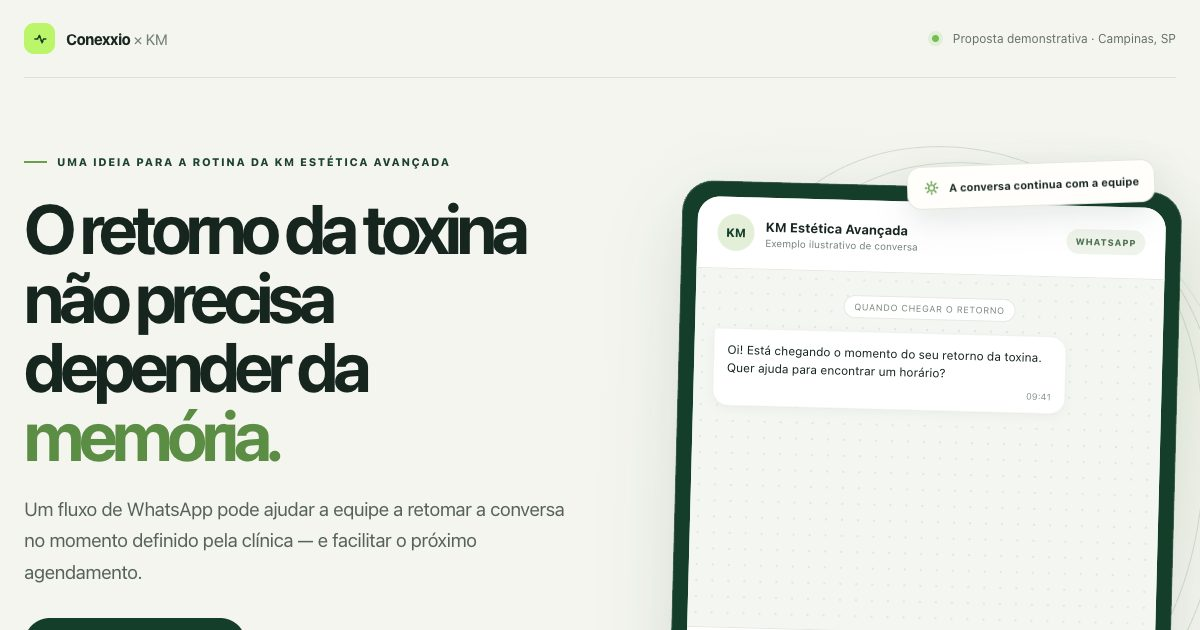
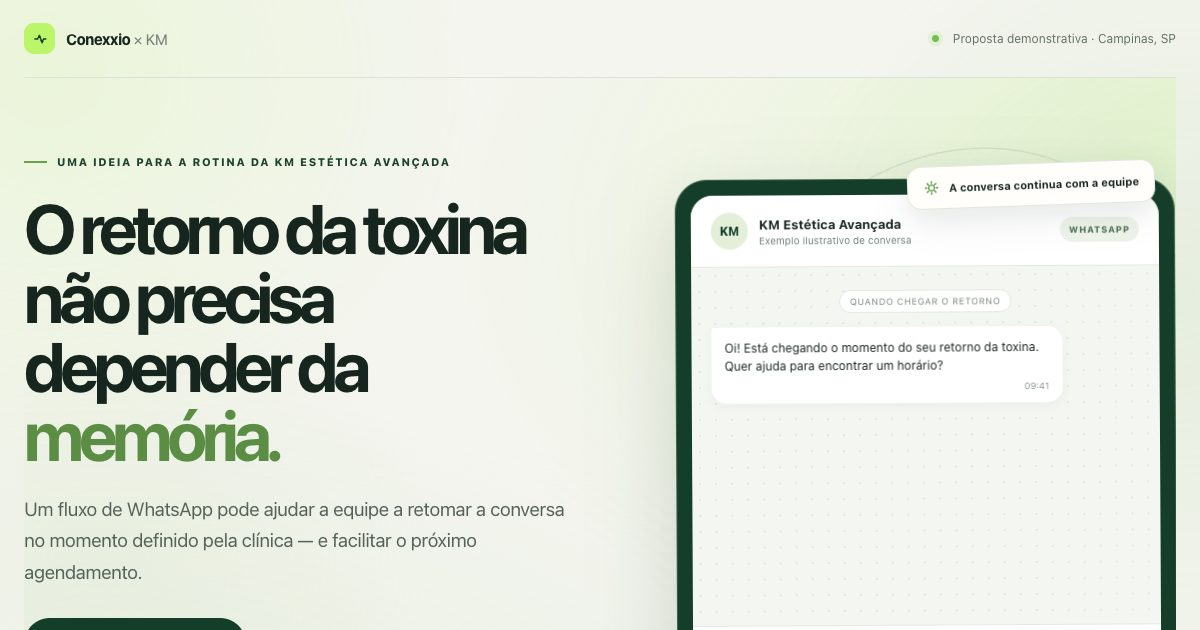
Refaz proposta KM com layout mobile-first e animações

diff --git a/index.html b/index.html
@@ -33,18 +33,21 @@
     }
     *, *::before, *::after { box-sizing: border-box; }
     html { scroll-behavior: smooth; }
-    body { margin: 0; background: var(--paper); color: var(--ink); -webkit-font-smoothing: antialiased; }
+    body { margin: 0; overflow-x: clip; background: var(--paper); color: var(--ink); -webkit-font-smoothing: antialiased; }
+    body::before { position: fixed; inset: 0; z-index: 0; content: ""; pointer-events: none; background: radial-gradient(38rem 34rem at 4% 12%, rgba(186,245,106,.16), transparent 72%), radial-gradient(36rem 36rem at 98% 48%, rgba(162,204,143,.18), transparent 72%), radial-gradient(30rem 28rem at 8% 88%, rgba(207,224,185,.2), transparent 70%); animation: atmosphere-drift 18s ease-in-out infinite alternate; }
+    @keyframes atmosphere-drift { to { transform: translate3d(1%, -1%, 0) scale(1.03); opacity: .8; } }
+    header, main { position: relative; z-index: 1; }
     a { color: inherit; }
-    .wrap { width: min(1160px, calc(100% - 48px)); margin: 0 auto; }
+    .wrap { width: min(520px, calc(100% - 36px)); margin: 0 auto; }
     .topbar { display: flex; align-items: center; justify-content: space-between; padding: 23px 0; border-bottom: 1px solid var(--line); }
     .scroll-progress { position: fixed; inset: 0 auto auto 0; z-index: 20; width: 100%; height: 3px; background: var(--green); transform: scaleX(0); transform-origin: left center; pointer-events: none; }
     .brand { display: flex; gap: 11px; align-items: center; color: var(--ink); text-decoration: none; font-size: 15px; font-weight: 750; letter-spacing: -.035em; }
     .brand-mark { display: grid; width: 31px; height: 31px; place-items: center; border-radius: 10px; background: var(--green); color: var(--forest); }
     .brand-mark svg { width: 18px; height: 18px; }
-    .top-meta { display: flex; gap: 14px; align-items: center; color: var(--muted); font-size: 12px; }
+    .top-meta { display: none; gap: 14px; align-items: center; color: var(--muted); font-size: 12px; }
     .meta-dot { width: 7px; height: 7px; border-radius: 50%; background: #73be4f; box-shadow: 0 0 0 4px #e1efd9; }
-    .hero { position: relative; display: grid; grid-template-columns: minmax(0, 1.04fr) minmax(390px, .96fr); gap: clamp(40px, 7vw, 98px); align-items: center; min-height: 650px; padding: 76px 0 90px; }
-    .hero-copy { position: relative; z-index: 1; }
+    .hero { position: relative; isolation: isolate; overflow: clip; display: grid; grid-template-columns: minmax(0, 1fr); gap: 54px; align-items: center; min-height: 0; padding: 52px 0 76px; }
+    .hero-copy { position: relative; z-index: 1; min-width: 0; }
     .hero-copy .eyebrow, .hero-copy .hero-lead, .hero-copy .hero-actions, .hero-copy .proof { animation: rise-in .75s cubic-bezier(.2,.7,.2,1) both; }
     .hero-copy .eyebrow { animation-delay: 80ms; }
     .hero-copy .hero-lead { animation-delay: 560ms; }
@@ -57,7 +60,7 @@
     .eyebrow { display: flex; align-items: center; gap: 10px; margin: 0 0 25px; color: var(--green-dark); font-size: 11px; line-height: 1.4; font-weight: 800; letter-spacing: .14em; text-transform: uppercase; }
     .eyebrow::before { width: 23px; height: 2px; content: ""; background: #6a9f4b; }
     h1, h2, h3, p { margin-top: 0; }
-    h1 { max-width: 670px; margin-bottom: 24px; font-size: clamp(48px, 5.8vw, 76px); line-height: .99; letter-spacing: -.075em; font-weight: 690; }
+    h1 { max-width: 670px; margin-bottom: 24px; font-size: clamp(43px, 11.5vw, 62px); line-height: .99; letter-spacing: -.075em; font-weight: 690; }
     h1 .word--accent { color: #5b8d45; }
     .hero-lead { max-width: 545px; margin-bottom: 30px; color: #56635b; font-size: clamp(17px, 1.7vw, 19px); line-height: 1.65; letter-spacing: -.015em; }
     .hero-actions { display: flex; flex-wrap: wrap; align-items: center; gap: 13px; }
@@ -70,12 +73,14 @@
     .proof-copy { display: grid; gap: 1px; font-size: 12px; }
     .proof-copy strong { font-size: 13px; }
     .proof-copy span { color: var(--muted); }
-    .demo-wrap { position: relative; max-width: 500px; justify-self: end; width: 100%; animation: rise-in .9s 380ms cubic-bezier(.2,.7,.2,1) both; }
-    .orbit { position: absolute; inset: -42px -30px -36px 30px; z-index: 0; border: 1px solid #d3ddcd; border-radius: 48% 52% 43% 57% / 48% 45% 55% 52%; transform: rotate(-9deg); }
+    .demo-wrap { position: relative; z-index: 1; max-width: 450px; justify-self: center; width: min(100% - 14px, 450px); animation: rise-in .9s 380ms cubic-bezier(.2,.7,.2,1) both; }
+    .orbit { position: absolute; inset: -20px -10px -20px 15px; z-index: 0; border: 1px solid #c9d8c0; border-radius: 48% 52% 43% 57% / 48% 45% 55% 52%; transform: rotate(-9deg); animation: orbit-drift 24s linear infinite; }
+    @keyframes orbit-drift { to { transform: rotate(351deg) scale(1.025); } }
     .orbit::before, .orbit::after { position: absolute; content: ""; border: 1px solid #d3ddcd; border-radius: inherit; }
     .orbit::before { inset: 18px -17px -14px 17px; }
     .orbit::after { inset: 38px -33px -27px 35px; opacity: .55; }
-    .demo-card { position: relative; z-index: 1; padding: 15px; border: 1px solid rgba(255,255,255,.18); border-radius: 32px; background: var(--forest); box-shadow: var(--shadow); transform: rotate(1.5deg); }
+    .demo-card { position: relative; z-index: 1; padding: 15px; border: 1px solid rgba(255,255,255,.18); border-radius: 32px; background: var(--forest); box-shadow: var(--shadow); transform: rotate(.7deg); animation: card-float 5.5s ease-in-out infinite; }
+    @keyframes card-float { 50% { transform: translateY(-8px) rotate(-.4deg); box-shadow: 0 32px 80px rgba(21,48,32,.18); } }
     .demo-inner { overflow: hidden; border-radius: 22px; background: #f8faf5; }
     .demo-top { display: flex; align-items: center; gap: 11px; padding: 17px 20px; border-bottom: 1px solid #e4e9e0; background: #fff; }
     .avatar { display: grid; width: 37px; height: 37px; flex: 0 0 auto; place-items: center; border-radius: 50%; background: #e4efda; color: var(--forest); font-size: 12px; font-weight: 800; }
@@ -99,27 +104,27 @@
     .chat-note { margin: 0; padding: 13px 18px; border-top: 1px solid #e4e9e0; background: #fff; color: #6e7a71; font-size: 10px; line-height: 1.5; text-align: center; }
     .floating-note { position: absolute; top: -23px; right: 21px; z-index: 2; display: flex; align-items: center; gap: 9px; padding: 12px 15px; border: 1px solid #e3e8df; border-radius: 14px; background: var(--white); box-shadow: 0 12px 32px rgba(21,48,32,.11); font-size: 11px; font-weight: 700; transform: rotate(-2deg); }
     .floating-note svg { width: 17px; height: 17px; color: #5b9947; }
-    .section { padding: 100px 0; }
-    .visual-section { padding: 12px 0 82px; }
-    .visual-frame { display: grid; grid-template-columns: .9fr 1.1fr; gap: clamp(28px, 5vw, 64px); align-items: center; min-height: 460px; padding: clamp(28px, 5vw, 62px); border-radius: 26px; background: var(--forest); color: #fff; }
+    .section { padding: 73px 0; }
+    .visual-section { padding: 0 0 65px; }
+    .visual-frame { display: grid; grid-template-columns: 1fr; gap: 27px; align-items: center; min-height: 0; padding: 27px 22px 22px; border-radius: 20px; background: var(--forest); color: #fff; }
     .visual-copy { max-width: 450px; }
     .visual-copy .eyebrow { color: #d8f8ae; }
     .visual-copy h2 { margin-bottom: 17px; font-size: clamp(34px, 4vw, 53px); }
     .visual-copy p:last-child { max-width: 390px; margin: 0; color: rgba(255,255,255,.72); font-size: 14px; line-height: 1.7; }
     .visual-gallery { display: grid; grid-template-columns: 1fr; min-width: 0; }
-    .photo-card { position: relative; overflow: hidden; min-width: 0; min-height: 430px; margin: 0; border-radius: 17px; background: #e8eee3; }
-    .visual-photo { display: block; width: 100%; height: 100%; min-height: 430px; object-fit: cover; object-position: center; transition: transform .5s cubic-bezier(.2,.7,.2,1); will-change: transform; }
+    .photo-card { position: relative; overflow: hidden; min-width: 0; min-height: 390px; margin: 0; border-radius: 17px; background: #e8eee3; }
+    .visual-photo { display: block; width: 100%; height: 100%; min-height: 390px; object-fit: cover; object-position: center; transition: transform .5s cubic-bezier(.2,.7,.2,1); will-change: transform; }
     .photo-credit { position: absolute; right: 10px; bottom: 10px; left: 10px; padding: 8px 10px; border: 1px solid rgba(255,255,255,.2); border-radius: 9px; background: rgba(16,31,22,.62); color: #fff; font-size: 9px; line-height: 1.4; backdrop-filter: blur(10px); }
     .js [data-reveal] { opacity: 0; transform: translateY(22px); transition: opacity .72s cubic-bezier(.2,.7,.2,1), transform .72s cubic-bezier(.2,.7,.2,1); }
     .js [data-reveal].is-in { opacity: 1; transform: none; }
-    .ambient { position: absolute; z-index: -1; top: 40px; right: -12vw; width: 42vw; height: 42vw; max-width: 620px; max-height: 620px; pointer-events: none; border-radius: 50%; background: radial-gradient(circle, rgba(197,226,177,.26), rgba(197,226,177,0) 68%); animation: breathe 7s ease-in-out infinite alternate; }
-    @keyframes breathe { to { transform: scale(1.12) translate(-2%, 2%); opacity: .65; } }
+    .ambient { position: absolute; z-index: 0; inset: 0; pointer-events: none; background: radial-gradient(ellipse at 92% 18%, rgba(186,245,106,.24), transparent 48%), radial-gradient(ellipse at 8% 86%, rgba(167,205,151,.19), transparent 44%); background-size: 130% 130%; animation: ambient-shift 9s ease-in-out infinite alternate; }
+    @keyframes ambient-shift { to { background-position: 100% 80%; filter: saturate(1.25); } }
     .section-light { border-top: 1px solid var(--line); background: var(--white); }
-    .section-head { display: flex; align-items: end; justify-content: space-between; gap: 40px; margin-bottom: 43px; }
+    .section-head { display: flex; align-items: flex-start; flex-direction: column; gap: 18px; margin-bottom: 28px; }
     .section-head .eyebrow { margin-bottom: 15px; }
     h2 { max-width: 640px; margin-bottom: 0; font-size: clamp(34px, 4.1vw, 52px); line-height: 1.05; letter-spacing: -.06em; font-weight: 680; }
     .section-intro { max-width: 390px; margin-bottom: 3px; color: var(--muted); font-size: 15px; line-height: 1.7; }
-    .steps { display: grid; grid-template-columns: repeat(3, 1fr); gap: 14px; }
+    .steps { display: grid; grid-template-columns: 1fr; gap: 10px; }
     .step { min-height: 244px; padding: 26px; border: 1px solid var(--line); border-radius: 19px; background: #fff; }
     .step-top { display: flex; align-items: center; justify-content: space-between; margin-bottom: 40px; }
     .step-num { color: #7e8d80; font-size: 11px; font-weight: 800; letter-spacing: .1em; }
@@ -130,7 +135,7 @@
     .note-band { display: flex; align-items: center; gap: 17px; margin-top: 20px; padding: 19px 23px; border-radius: 16px; background: #f1f5ec; color: #536357; font-size: 13px; line-height: 1.6; }
     .note-band svg { width: 20px; height: 20px; flex: 0 0 auto; color: #4f8744; }
     .note-band strong { color: var(--ink); }
-    .proposal { display: grid; grid-template-columns: .92fr 1.08fr; gap: clamp(50px, 9vw, 120px); align-items: center; }
+    .proposal { display: grid; grid-template-columns: 1fr; gap: 32px; align-items: center; }
     .proposal h2 { margin-bottom: 20px; }
     .proposal-copy > p:last-child { max-width: 460px; margin-bottom: 0; color: var(--muted); font-size: 15px; line-height: 1.75; }
     .flow { display: grid; gap: 0; padding: 25px; border: 1px solid rgba(255,255,255,.13); border-radius: 22px; background: var(--forest); color: #fff; }
@@ -140,58 +145,59 @@
     .flow-icon svg { width: 17px; height: 17px; }
     .flow-row strong { display: block; margin: 1px 0 4px; font-size: 13px; }
     .flow-row p { margin: 0; color: rgba(255,255,255,.68); font-size: 11px; line-height: 1.55; }
-    .end { padding: 87px 0 35px; background: var(--paper); }
-    .end-card { position: relative; overflow: hidden; display: flex; align-items: center; justify-content: space-between; gap: 35px; padding: clamp(30px, 6vw, 64px); border-radius: 28px; background: var(--green); }
+    .end { padding: 64px 0 35px; background: var(--paper); }
+    .end-card { position: relative; overflow: hidden; display: flex; align-items: flex-start; flex-direction: column; gap: 24px; padding: 31px 24px; border-radius: 28px; background: var(--green); }
     .end-card::after { position: absolute; right: 22%; bottom: -190px; width: 360px; height: 360px; border: 1px solid rgba(23,61,39,.16); border-radius: 50%; box-shadow: 0 0 0 34px rgba(23,61,39,.035), 0 0 0 68px rgba(23,61,39,.035); content: ""; }
     .end-copy { position: relative; z-index: 1; max-width: 600px; }
     .end-copy .eyebrow { color: #315b37; }
     .end-copy h2 { margin-bottom: 13px; font-size: clamp(32px, 4vw, 48px); }
     .end-copy p:last-child { max-width: 510px; margin-bottom: 0; color: #365440; font-size: 14px; line-height: 1.65; }
-    .end-action { position: relative; z-index: 1; flex: 0 0 auto; }
+    .end-action { position: relative; z-index: 1; flex: 0 0 auto; width: 100%; }
+    .end-action .button { width: 100%; }
     .button-dark { background: var(--forest); }
     .button-dark:hover { background: #24543a; }
-    footer { display: flex; align-items: center; justify-content: space-between; gap: 20px; padding: 27px 0 31px; color: #738076; font-size: 11px; }
+    footer { display: flex; align-items: flex-start; flex-direction: column; gap: 9px; padding: 27px 0 31px; color: #738076; font-size: 11px; }
     footer strong { color: #314b38; }
-    .fine { max-width: 720px; margin: 0; text-align: right; line-height: 1.55; }
+    .fine { max-width: 720px; margin: 0; text-align: left; line-height: 1.55; }
+    @media (min-width: 701px) {
+      .wrap { width: min(1160px, calc(100% - 48px)); }
+      .top-meta { display: flex; }
+      .section { padding: 100px 0; }
+      .visual-section { padding: 12px 0 82px; }
+      .visual-frame { grid-template-columns: .9fr 1.1fr; gap: clamp(28px, 5vw, 64px); min-height: 460px; padding: clamp(28px, 5vw, 62px); border-radius: 26px; }
+      .photo-card, .visual-photo { min-height: 430px; }
+      .section-head { align-items: flex-end; flex-direction: row; justify-content: space-between; gap: 40px; margin-bottom: 43px; }
+      .steps { grid-template-columns: repeat(3, 1fr); gap: 14px; }
+      .proposal { grid-template-columns: .92fr 1.08fr; gap: clamp(50px, 9vw, 120px); }
+      .end { padding: 87px 0 35px; }
+      .end-card { align-items: center; flex-direction: row; justify-content: space-between; gap: 35px; padding: clamp(30px, 6vw, 64px); }
+      .end-action { width: auto; }
+      .end-action .button { width: auto; }
+      footer { align-items: center; flex-direction: row; justify-content: space-between; gap: 20px; }
+      .fine { text-align: right; }
+    }
+    @media (min-width: 901px) {
+      .hero { grid-template-columns: minmax(0, 1.04fr) minmax(0, .96fr); gap: clamp(40px, 7vw, 98px); min-height: 650px; padding: 76px 0 90px; }
+      h1 { font-size: clamp(48px, 5.8vw, 76px); }
+      .demo-wrap { max-width: 500px; width: 100%; justify-self: end; }
+      .orbit { inset: -42px -30px -36px 30px; }
+      .visual-frame { grid-template-columns: .9fr 1.1fr; }
+    }
     @media (max-width: 900px) {
-      .hero { grid-template-columns: minmax(0, 1fr) minmax(320px, .85fr); gap: 34px; min-height: 590px; }
-      h1 { font-size: clamp(44px, 6.1vw, 62px); }
-      .floating-note { right: 8px; }
-      .section-head { align-items: start; flex-direction: column; gap: 18px; }
       .section-intro { max-width: 550px; }
     }
     @media (max-width: 700px) {
-      .wrap { width: min(100% - 36px, 520px); }
       .topbar { padding: 17px 0; }
-      .top-meta { display: none; }
-      .hero { grid-template-columns: 1fr; gap: 54px; min-height: 0; padding: 60px 0 82px; }
-      .hero-copy { max-width: 560px; }
-      h1 { max-width: 540px; font-size: clamp(43px, 12vw, 62px); }
       .hero-lead { font-size: 16px; }
-      .demo-wrap { width: min(100% - 14px, 450px); justify-self: center; }
-      .orbit { inset: -20px -10px -20px 15px; }
-      .demo-card { transform: rotate(.7deg); }
-      .floating-note { top: -19px; right: 1px; font-size: 10px; }
       .proof { margin-top: 28px; }
-      .section { padding: 73px 0; }
-      .visual-section { padding: 0 0 65px; }
-      .visual-frame { grid-template-columns: 1fr; gap: 27px; min-height: 0; padding: 27px 22px 22px; border-radius: 20px; }
       .visual-copy h2 { font-size: clamp(32px, 8vw, 42px); }
-      .photo-card, .visual-photo { min-height: 390px; }
       .photo-credit { right: 6px; bottom: 6px; left: 6px; padding: 7px; font-size: 8px; }
-      .section-head { margin-bottom: 28px; }
       h2 { font-size: clamp(34px, 9vw, 46px); }
-      .steps { grid-template-columns: 1fr; gap: 10px; }
       .step { min-height: unset; padding: 21px; }
       .step-top { margin-bottom: 24px; }
       .note-band { align-items: flex-start; padding: 17px; }
-      .proposal { grid-template-columns: 1fr; gap: 32px; }
       .flow { padding: 19px; }
-      .end { padding-top: 64px; }
-      .end-card { align-items: flex-start; flex-direction: column; gap: 24px; padding: 31px 24px; }
-      .end-action, .end-action .button { width: 100%; }
-      footer { align-items: flex-start; flex-direction: column; gap: 9px; }
-      .fine { text-align: left; }
+      .floating-note { top: -19px; right: 1px; font-size: 10px; }
     }
     @media (prefers-reduced-motion: reduce) { html { scroll-behavior: auto; } *, *::before, *::after { animation-duration: .01ms !important; animation-delay: 0ms !important; transition-duration: .01ms !important; } .js [data-reveal] { opacity: 1; transform: none; } .js .chat[data-sequence] .bubble { opacity: 1; transform: none; } .typing { display: none; } }
   </style>
